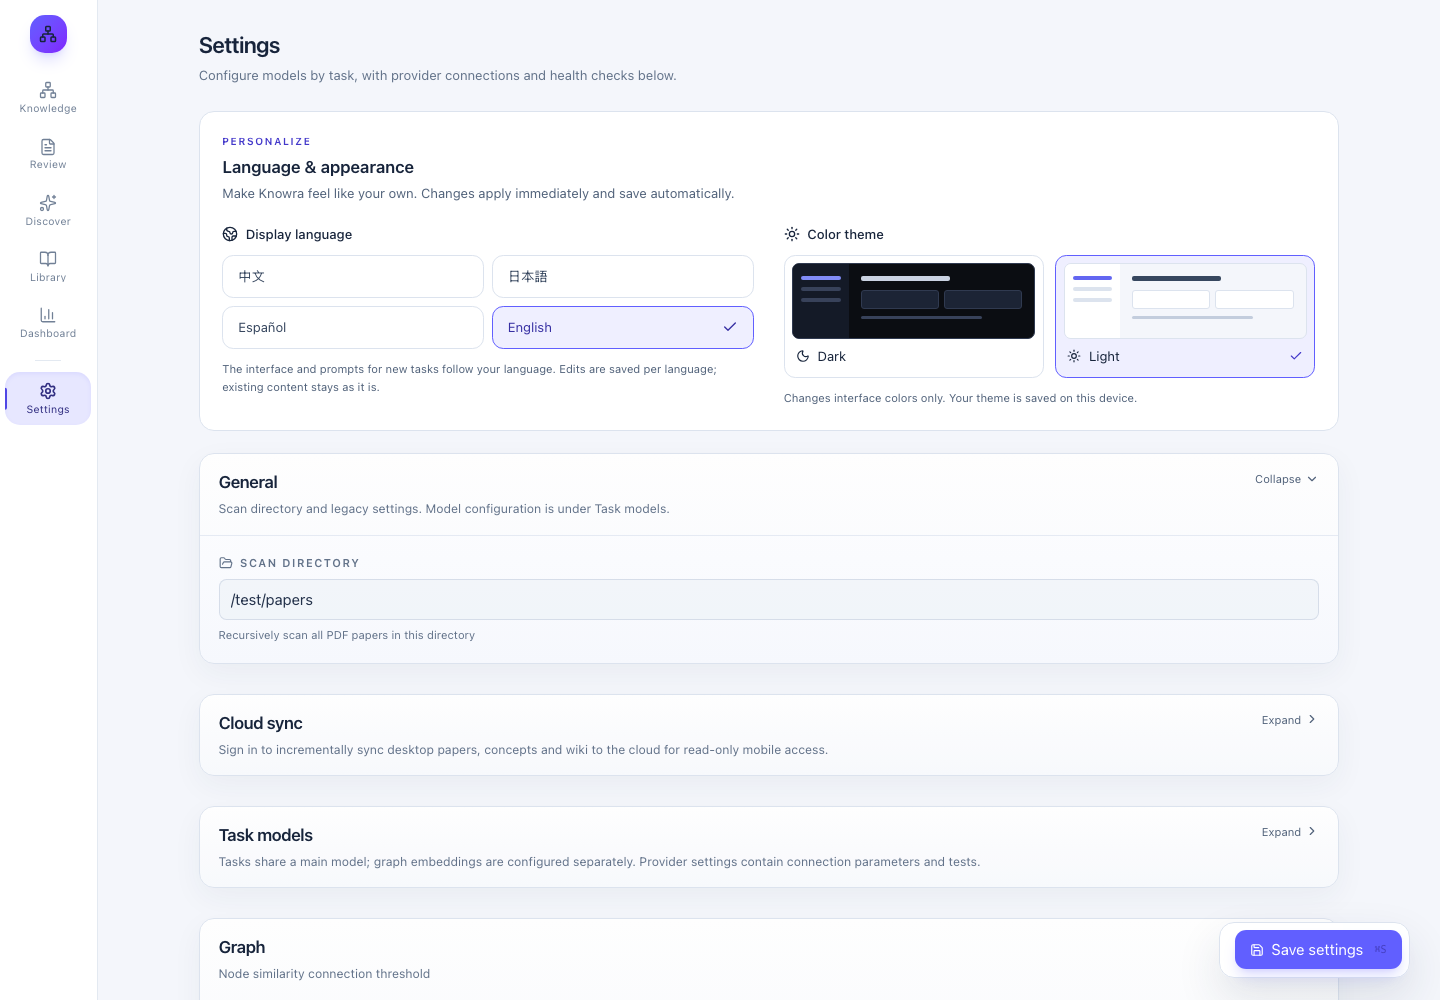
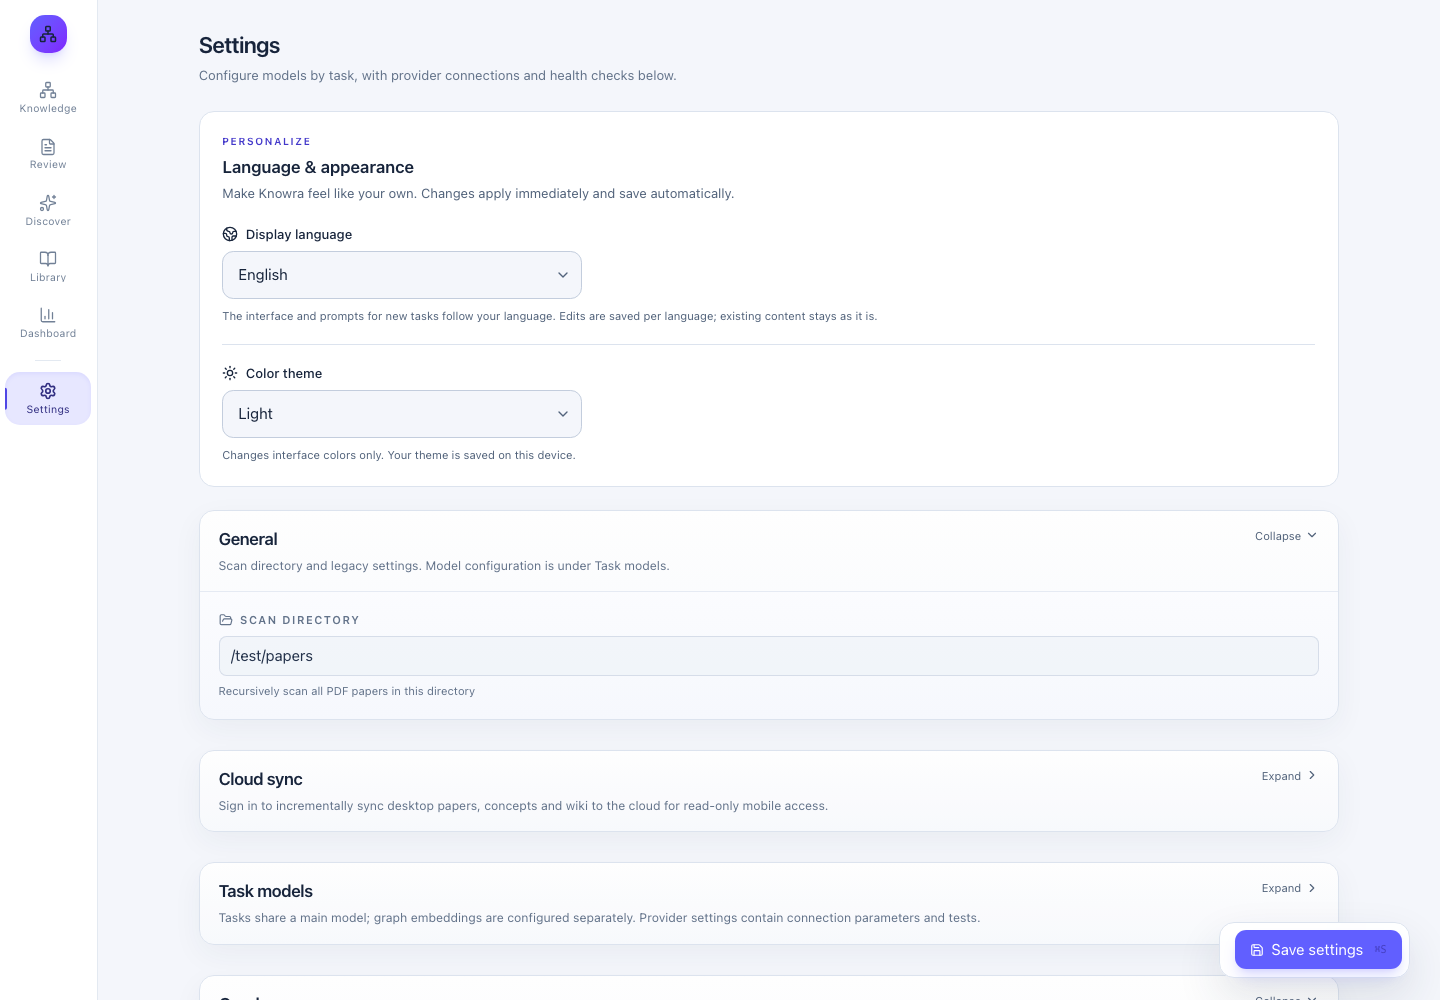
NOISSUE: simplify appearance settings to stacked dropdowns

diff --git a/frontend/src/components/AppearanceSettings.tsx b/frontend/src/components/AppearanceSettings.tsx
@@ -1,10 +1,10 @@
 import { useState } from 'react'
 import { isAxiosError } from 'axios'
-import { Check, Globe2, Moon, Sun } from 'lucide-react'
+import { ChevronDown, Globe2, Sun } from 'lucide-react'
 import { savePresentationLanguage } from '../api/client'
 import { t } from '../i18n/catalog'
 import { useLocale, useTheme } from '../i18n/preferences'
-import { LANGUAGES, setLocale, setTheme, type Locale } from '../i18n/store'
+import { LANGUAGES, setLocale, setTheme, type Locale, type Theme } from '../i18n/store'
 
 export default function AppearanceSettings() {
   const locale = useLocale()
@@ -30,39 +30,29 @@ export default function AppearanceSettings() {
         <h2 id="appearance-title" className="mt-1 text-lg font-semibold text-foreground">{t('语言与外观')}</h2>
         <p className="mt-1 text-sm text-slate-400">{t('让 Knowra 更适合你的阅读习惯。更改后即时生效并自动保存。')}</p>
       </div>
-      <div className="grid gap-8 lg:grid-cols-2">
-        <fieldset disabled={pending !== null} className="min-w-0">
-          <legend className="mb-3 flex items-center gap-2 text-sm font-medium text-foreground"><Globe2 size={16} />{t('显示语言')}</legend>
-          <div className="grid grid-cols-2 gap-2">
-            {LANGUAGES.map(language => (
-              <label key={language.id} className={`relative flex cursor-pointer items-center justify-between gap-2 rounded-xl border px-4 py-3 text-sm transition-colors ${(pending ?? locale) === language.id ? 'border-indigo-500 bg-indigo-500/10 text-indigo-200' : 'border-slate-800 text-slate-300 hover:border-slate-600'} ${pending ? 'opacity-60' : ''}`}>
-                <input type="radio" name="language" value={language.id} checked={(pending ?? locale) === language.id} onChange={() => void changeLanguage(language.id)} className="peer absolute inset-0 z-10 h-full w-full cursor-pointer opacity-0" />
-                <span lang={language.lang}>{language.label}</span>
-                {(pending ?? locale) === language.id && <Check size={16} aria-hidden="true" />}
-                <span className="pointer-events-none absolute inset-0 rounded-xl peer-focus-visible:ring-2 peer-focus-visible:ring-indigo-400 peer-focus-visible:ring-offset-2" />
-              </label>
-            ))}
+      <div className="space-y-5">
+        <div>
+          <label htmlFor="appearance-language" className="mb-2 flex items-center gap-2 text-sm font-medium text-foreground"><Globe2 size={16} />{t('显示语言')}</label>
+          <div className="relative w-full max-w-sm">
+            <select id="appearance-language" value={pending ?? locale} disabled={pending !== null} onChange={event => void changeLanguage(event.target.value as Locale)} aria-describedby="appearance-language-hint appearance-language-status" className="w-full appearance-none rounded-xl border border-slate-700 bg-[var(--surface-0b0d12)] py-3 pl-4 pr-10 text-sm text-foreground outline-none transition-colors hover:border-slate-500 focus:border-indigo-500 focus:ring-2 focus:ring-indigo-500/20 disabled:cursor-wait disabled:opacity-60">
+              {LANGUAGES.map(language => <option key={language.id} value={language.id} lang={language.lang}>{language.label}</option>)}
+            </select>
+            <ChevronDown size={16} aria-hidden="true" className="pointer-events-none absolute right-3 top-1/2 -translate-y-1/2 text-slate-400" />
           </div>
-          <p className="mt-3 text-xs leading-relaxed text-slate-400">{t('界面与新任务的提示词按语言加载。每种语言的修改独立保存，已有内容保持原样。')}</p>
-          <p aria-live="polite" className={`mt-2 text-xs ${error ? 'text-rose-300' : 'text-slate-400'}`}>{pending ? t('切换语言中…') : error === 'restart' ? t('当前后端尚未加载语言设置接口，请重启本地服务后重试。') : error ? t('语言保存失败，请检查后端连接后重试。') : ''}</p>
-        </fieldset>
-        <fieldset className="min-w-0">
-          <legend className="mb-3 flex items-center gap-2 text-sm font-medium text-foreground"><Sun size={16} />{t('主题配色')}</legend>
-          <div className="grid grid-cols-2 gap-3">
-            {(['dark', 'light'] as const).map(option => (
-              <label key={option} className={`relative cursor-pointer rounded-xl border p-2 transition-colors ${theme === option ? 'border-indigo-500 bg-indigo-500/10' : 'border-slate-800 hover:border-slate-600'}`}>
-                <input type="radio" name="theme" value={option} checked={theme === option} onChange={() => setTheme(option)} className="peer absolute inset-0 z-10 h-full w-full cursor-pointer opacity-0" />
-                <div className={`theme-preview theme-preview-${option}`} aria-hidden="true">
-                  <div className="theme-preview-nav"><i /><i /><i /></div>
-                  <div className="theme-preview-content"><b /><div><i /><i /></div><em /></div>
-                </div>
-                <span className="flex items-center gap-2 px-1 pt-2 pb-1 text-sm text-foreground">{option === 'dark' ? <Moon size={14} /> : <Sun size={14} />}{option === 'dark' ? 'Dark' : 'Light'}{theme === option && <Check size={14} className="ml-auto text-indigo-300" />}</span>
-                <span className="pointer-events-none absolute inset-0 rounded-xl peer-focus-visible:ring-2 peer-focus-visible:ring-indigo-400 peer-focus-visible:ring-offset-2" />
-              </label>
-            ))}
+          <p id="appearance-language-hint" className="mt-2 text-xs leading-relaxed text-slate-400">{t('界面与新任务的提示词按语言加载。每种语言的修改独立保存，已有内容保持原样。')}</p>
+          <p id="appearance-language-status" aria-live="polite" className={`text-xs ${pending || error ? 'mt-2' : ''} ${error ? 'text-rose-300' : 'text-slate-400'}`}>{pending ? t('切换语言中…') : error === 'restart' ? t('当前后端尚未加载语言设置接口，请重启本地服务后重试。') : error ? t('语言保存失败，请检查后端连接后重试。') : ''}</p>
+        </div>
+        <div className="border-t border-slate-800 pt-5">
+          <label htmlFor="appearance-theme" className="mb-2 flex items-center gap-2 text-sm font-medium text-foreground"><Sun size={16} />{t('主题配色')}</label>
+          <div className="relative w-full max-w-sm">
+            <select id="appearance-theme" value={theme} onChange={event => setTheme(event.target.value as Theme)} aria-describedby="appearance-theme-hint" className="w-full appearance-none rounded-xl border border-slate-700 bg-[var(--surface-0b0d12)] py-3 pl-4 pr-10 text-sm text-foreground outline-none transition-colors hover:border-slate-500 focus:border-indigo-500 focus:ring-2 focus:ring-indigo-500/20">
+              <option value="dark">Dark</option>
+              <option value="light">Light</option>
+            </select>
+            <ChevronDown size={16} aria-hidden="true" className="pointer-events-none absolute right-3 top-1/2 -translate-y-1/2 text-slate-400" />
           </div>
-          <p className="mt-3 text-xs leading-relaxed text-slate-400">{t('仅调整界面配色，主题偏好保存在当前设备。')}</p>
-        </fieldset>
+          <p id="appearance-theme-hint" className="mt-2 text-xs leading-relaxed text-slate-400">{t('仅调整界面配色，主题偏好保存在当前设备。')}</p>
+        </div>
       </div>
     </section>
   )

diff --git a/frontend/tests/appearance.spec.ts b/frontend/tests/appearance.spec.ts
@@ -55,7 +55,7 @@ async function mockBackend(page: Page, options: { offlineLanguage?: boolean; out
 
 async function openSettings(page: Page, label = '设置') {
   await page.getByRole('navigation').getByRole('button', { name: label, exact: true }).click()
-  await expect(page.getByRole('radio', { name: 'English', exact: true })).toBeVisible()
+  await expect(page.locator('#appearance-language')).toBeVisible()
 }
 
 test('all four languages switch immediately; theme and locale survive reload without workflow writes', async ({ page }) => {
@@ -68,13 +68,13 @@ test('all four languages switch immediately; theme and locale survive reload wit
   for (const [language, code, heading] of [
     ['English', 'en', 'Language & appearance'], ['日本語', 'ja', '言語と外観'], ['Español', 'es', 'Idioma y apariencia'], ['中文', 'zh-CN', '语言与外观'],
   ]) {
-    await page.getByRole('radio', { name: language, exact: true }).check()
+    await page.locator('#appearance-language').selectOption({ label: language })
     await expect(page.locator('html')).toHaveAttribute('lang', code)
     await expect(page.getByRole('heading', { name: heading, exact: true })).toBeVisible()
   }
   expect(mutations.filter(path => path === '/scan')).toHaveLength(initialScans)
-  await page.getByRole('radio', { name: 'English', exact: true }).check()
-  await page.getByRole('radio', { name: 'Light', exact: true }).check()
+  await page.locator('#appearance-language').selectOption({ label: 'English' })
+  await page.locator('#appearance-theme').selectOption('light')
   await expect(page.locator('html')).toHaveAttribute('data-theme', 'light')
   await expect(page.locator('body')).toHaveCSS('background-color', 'rgb(244, 246, 251)')
   await page.screenshot({ path: 'test-results/settings-light-en.png', fullPage: true, animations: 'disabled' })
@@ -82,8 +82,8 @@ test('all four languages switch immediately; theme and locale survive reload wit
   await expect(page.locator('html')).toHaveAttribute('lang', 'en')
   await expect(page.locator('html')).toHaveAttribute('data-theme', 'light')
   await openSettings(page, 'Settings')
-  await expect(page.getByRole('radio', { name: 'Light', exact: true })).toBeChecked()
-  await page.getByRole('radio', { name: 'Dark', exact: true }).check()
+  await expect(page.locator('#appearance-theme')).toHaveValue('light')
+  await page.locator('#appearance-theme').selectOption('dark')
   await expect(page.locator('body')).toHaveCSS('background-color', 'rgb(11, 13, 18)')
   await page.screenshot({ path: 'test-results/settings-dark-en.png', fullPage: true, animations: 'disabled' })
   expect(mutations.every(path => path === '/prompt/preferences' || path === '/scan')).toBeTruthy()
@@ -94,7 +94,7 @@ test('prompt saves and resets are scoped to language; source paper names remain 
   const { prompts } = await mockBackend(page)
   await page.goto('/')
   await openSettings(page)
-  await page.getByRole('radio', { name: 'English', exact: true }).check()
+  await page.locator('#appearance-language').selectOption({ label: 'English' })
   await page.getByRole('navigation').getByRole('button', { name: 'Library', exact: true }).click()
   await expect(page.getByText('世界模型 User paper', { exact: true })).toBeVisible()
   await page.getByRole('button', { name: 'Expand global prompt editor' }).click()
@@ -106,7 +106,7 @@ test('prompt saves and resets are scoped to language; source paper names remain 
   await expect.poll(() => prompts.en).toBe('My English custom prompt')
   expect(prompts.zh).toBe('中文抽取模板')
   await openSettings(page, 'Settings')
-  await page.getByRole('radio', { name: '日本語', exact: true }).check()
+  await page.locator('#appearance-language').selectOption({ label: '日本語' })
   await page.getByRole('navigation').getByRole('button', { name: '資料', exact: true }).click()
   await page.getByRole('button', { name: '共通プロンプト編集を展開' }).click()
   await expect(editor).toHaveValue('日本語の抽出テンプレート')
@@ -121,10 +121,10 @@ test('failed language persistence retains selection; theme is independent of bac
   const { mutations } = await mockBackend(page, { offlineLanguage: true })
   await page.goto('/')
   await openSettings(page)
-  await page.getByRole('radio', { name: 'Español', exact: true }).check()
+  await page.locator('#appearance-language').selectOption({ label: 'Español' })
   await expect(page.getByText('语言保存失败，请检查后端连接后重试。')).toBeVisible()
-  await expect(page.getByRole('radio', { name: '中文', exact: true })).toBeChecked()
-  await page.getByRole('radio', { name: 'Light', exact: true }).check()
+  await expect(page.locator('#appearance-language')).toHaveValue('zh')
+  await page.locator('#appearance-theme').selectOption('light')
   await expect(page.locator('html')).toHaveAttribute('data-theme', 'light')
   expect(mutations.filter(path => path !== '/scan')).toEqual(['/prompt/preferences'])
 })
@@ -133,9 +133,9 @@ test('an older running backend gives actionable restart guidance without changin
   await mockBackend(page, { outdatedBackend: true })
   await page.goto('/')
   await openSettings(page)
-  await page.getByRole('radio', { name: 'English', exact: true }).check()
+  await page.locator('#appearance-language').selectOption({ label: 'English' })
   await expect(page.getByText('当前后端尚未加载语言设置接口，请重启本地服务后重试。')).toBeVisible()
-  await expect(page.getByRole('radio', { name: '中文', exact: true })).toBeChecked()
+  await expect(page.locator('#appearance-language')).toHaveValue('zh')
   await expect(page.locator('html')).toHaveAttribute('lang', 'zh-CN')
 })
 
@@ -197,9 +197,9 @@ test('Spanish Light settings fit a narrow desktop window', async ({ page }) => {
   await mockBackend(page)
   await page.goto('/')
   await openSettings(page)
-  await page.getByRole('radio', { name: 'Español', exact: true }).check()
+  await page.locator('#appearance-language').selectOption({ label: 'Español' })
   await expect(page.locator('html')).toHaveAttribute('lang', 'es')
-  await page.getByRole('radio', { name: 'Light', exact: true }).check()
+  await page.locator('#appearance-theme').selectOption('light')
   const panel = page.getByRole('region', { name: 'Idioma y apariencia' })
   await expect(panel).toBeVisible()
   expect(await panel.evaluate(el => el.scrollWidth <= el.clientWidth)).toBeTruthy()

diff --git a/frontend/src/index.css b/frontend/src/index.css
@@ -418,19 +418,3 @@ html, body { background: var(--surface-0b0d12); color: var(--color-slate-200); }
 :root[data-theme="light"] input[type="range"]::-webkit-slider-runnable-track { background: #c3cddd; }
 :root[data-theme="light"] input[type="range"]::-webkit-slider-thumb { border-color: #fff; }
 :root[data-theme="light"] .shadow-2xl { --tw-shadow: 0 20px 45px rgb(36 50 75 / 12%); }
-.theme-preview { display: flex; height: 76px; overflow: hidden; border-radius: 7px; border: 1px solid #303a50; background: #0b0d12; }
-.theme-preview-nav { width: 23%; padding: 12px 8px; background: #141a27; display: flex; flex-direction: column; gap: 7px; }
-.theme-preview-nav i { display: block; height: 4px; border-radius: 2px; background: #38425a; }
-.theme-preview-nav i:first-child { background: #818cf8; }
-.theme-preview-content { padding: 12px; flex: 1; }
-.theme-preview-content b { display: block; width: 55%; height: 5px; background: #cad2e2; border-radius: 2px; }
-.theme-preview-content div { display: flex; gap: 5px; margin: 9px 0 7px; }
-.theme-preview-content i { flex: 1; height: 19px; border: 1px solid #303a50; border-radius: 3px; background: #1c2435; }
-.theme-preview-content em { display: block; width: 75%; height: 3px; background: #38425a; border-radius: 2px; }
-.theme-preview-light { background: #f4f6fb; border-color: #dce3ee; }
-.theme-preview-light .theme-preview-nav { background: #fff; }
-.theme-preview-light .theme-preview-nav i { background: #dce3ee; }
-.theme-preview-light .theme-preview-nav i:first-child { background: #6366f1; }
-.theme-preview-light .theme-preview-content b { background: #37475f; }
-.theme-preview-light .theme-preview-content i { background: #fff; border-color: #dce3ee; }
-.theme-preview-light .theme-preview-content em { background: #c3cddd; }

diff --git a/docs/APPEARANCE.md b/docs/APPEARANCE.md
@@ -1,6 +1,6 @@
 # Language and appearance
 
-Settings → Language & appearance offers 中文, 日本語, Español and English, plus Dark and Light. The controls save automatically; the existing Save settings button still applies only to model, directory and graph configuration.
+Settings → Language & appearance offers 中文, 日本語, Español and English, plus Dark and Light. Language and theme appear as two vertically stacked dropdowns; closed controls display only the selected value. The controls save automatically; the existing Save settings button still applies only to model, directory and graph configuration.
 
 ![Light settings](images/settings-light.png)
 
